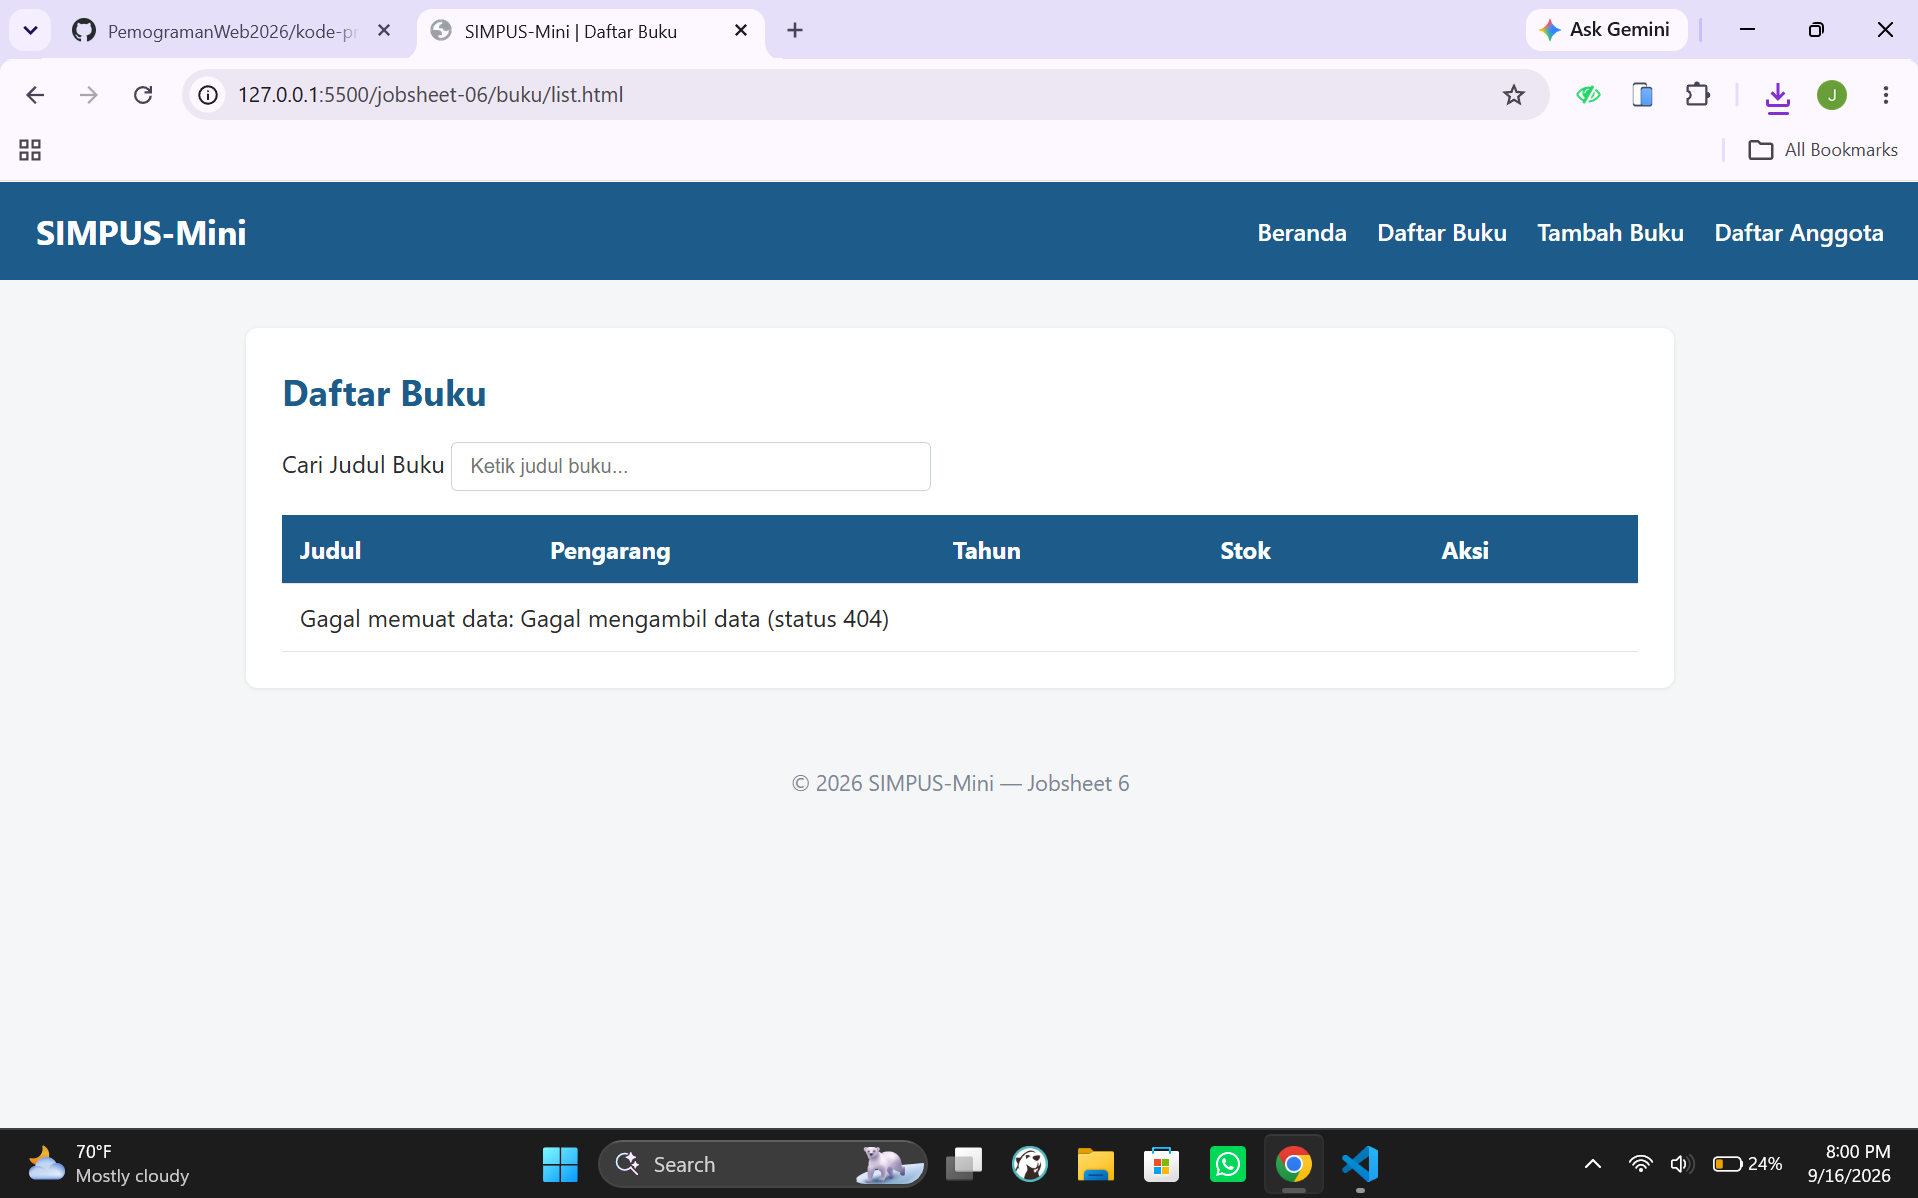
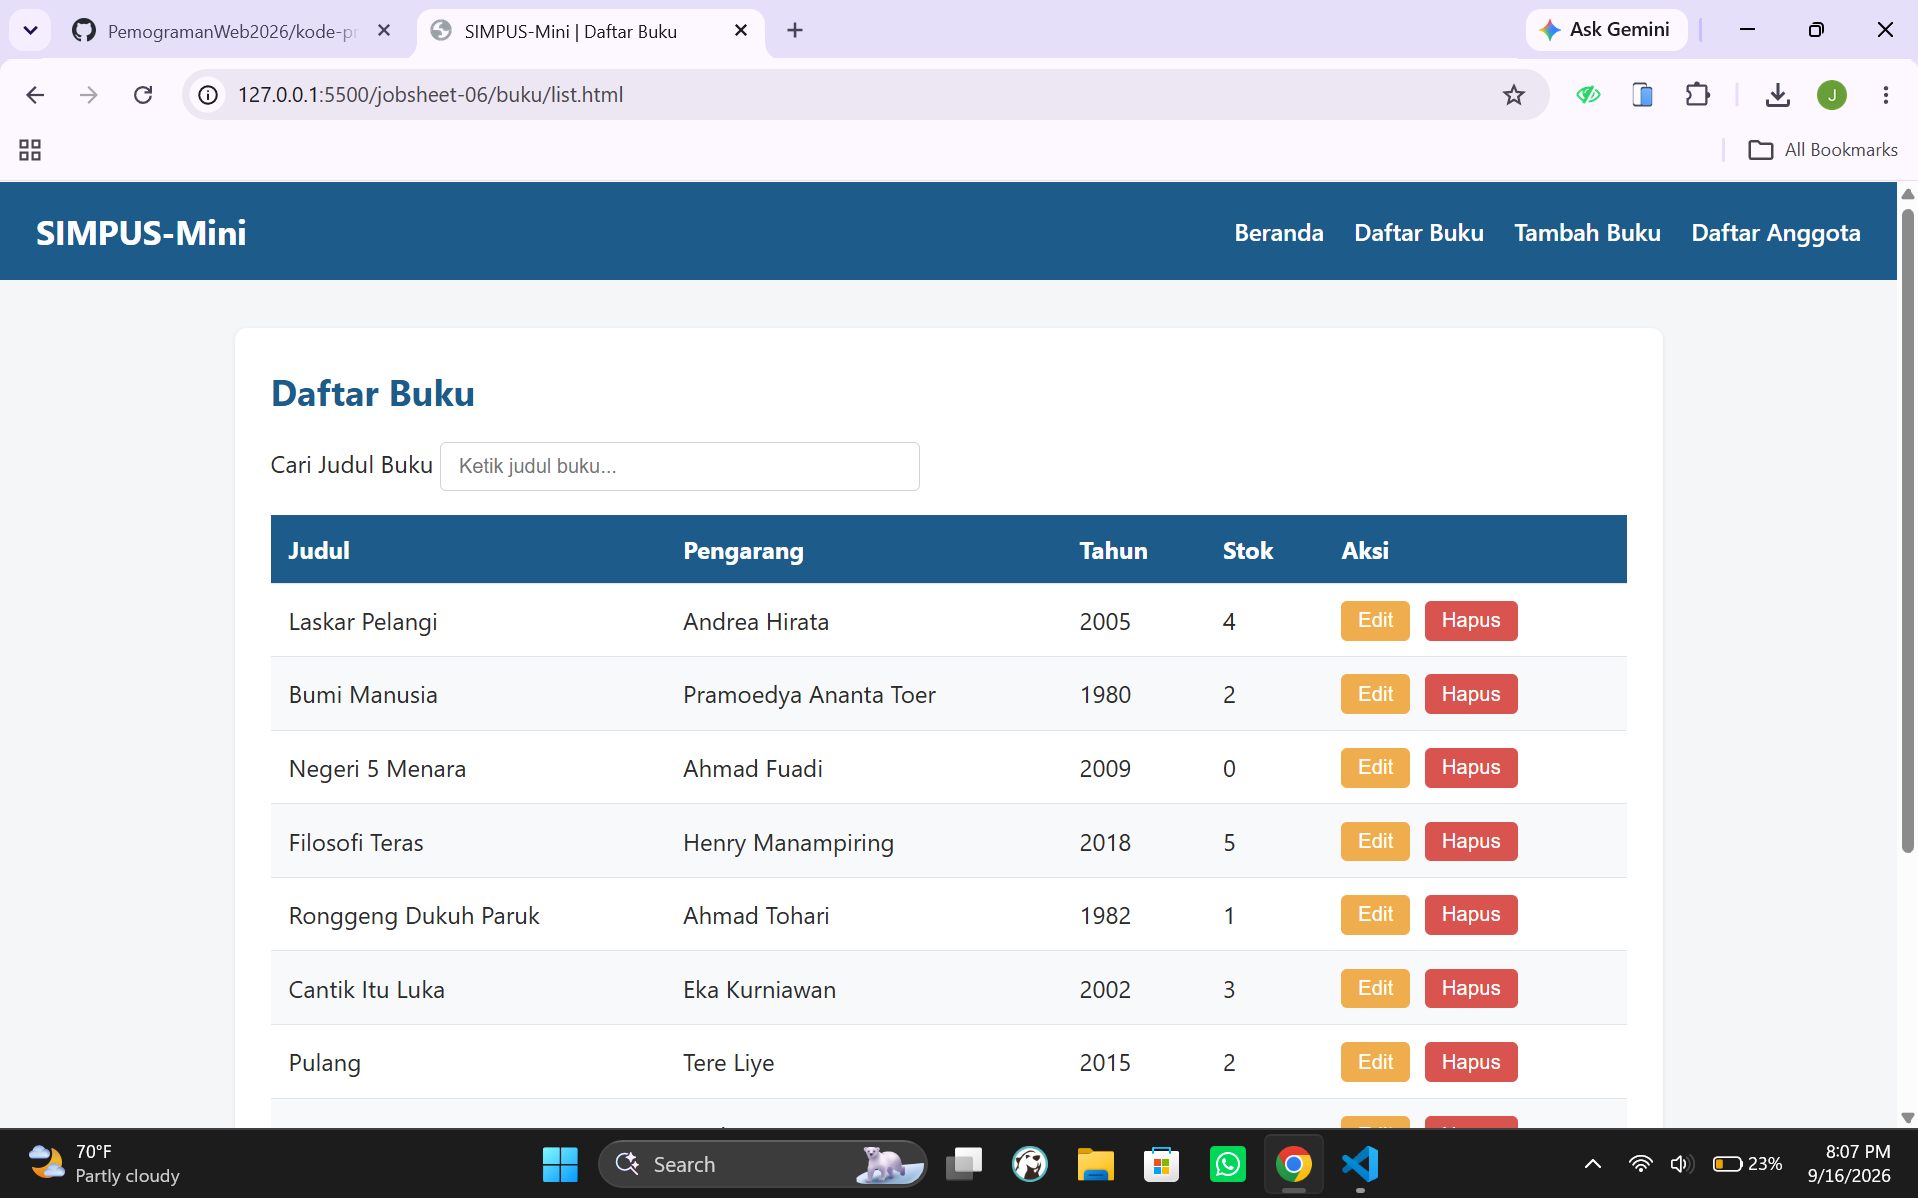
jobsheet6_tambah anggota

diff --git a/jobsheet-06/anggota/tambah.html b/jobsheet-06/anggota/tambah.html
@@ -1,0 +1,55 @@
+<!DOCTYPE html>
+<html lang="id">
+<head>
+    <meta charset="UTF-8">
+    <meta name="viewport" content="width=device-width, initial-scale=1">
+    <title>SIMPUS-Mini | Tambah Anggota</title>
+    <link rel="stylesheet" href="../assets/css/style.css">
+</head>
+<body>
+    <header>
+        <h1>SIMPUS-Mini</h1>
+        <button type="button" id="nav-toggle-btn" class="nav-toggle-label" aria-label="Menu">&#9776;</button>
+        <nav>
+            <ul>
+                <li><a href="../index.html">Beranda</a></li>
+                <li><a href="../buku/list.html">Daftar Buku</a></li>
+                <li><a href="list.html">Daftar Anggota</a></li>
+                <li><a href="tambah.html">Tambah Anggota</a></li>
+            </ul>
+        </nav>
+    </header>
+
+    <main>
+        <section>
+            <h2>Tambah Anggota</h2>
+            <form id="form-tambah">
+                <p>
+                    <label for="nama">Nama</label><br>
+                    <input type="text" id="nama" name="nama" required>
+                </p>
+                <p>
+                    <label for="no_anggota">No. Anggota</label><br>
+                    <input type="text" id="no_anggota" name="no_anggota" required>
+                </p>
+                <p>
+                    <label for="alamat">Alamat</label><br>
+                    <input type="text" id="alamat" name="alamat">
+                </p>
+                <p>
+                    <label for="no_hp">No. HP</label><br>
+                    <input type="text" id="no_hp" name="no_hp">
+                </p>
+                <p>
+                    <button type="submit">Simpan</button>
+                </p>
+            </form>
+        </section>
+    </main>
+
+    <footer>
+        <p>&copy; 2026 SIMPUS-Mini &mdash; Jobsheet 6</p>
+    </footer>
+    <script src="../assets/js/app.js"></script>
+</body>
+</html>

diff --git a/jobsheet-06/laporan.md b/jobsheet-06/laporan.md
@@ -20,3 +20,4 @@
 ![list-anggota](image-3.png)
 
 ## halaman tambah anggota
+![tambah-anggota](image-4.png)
